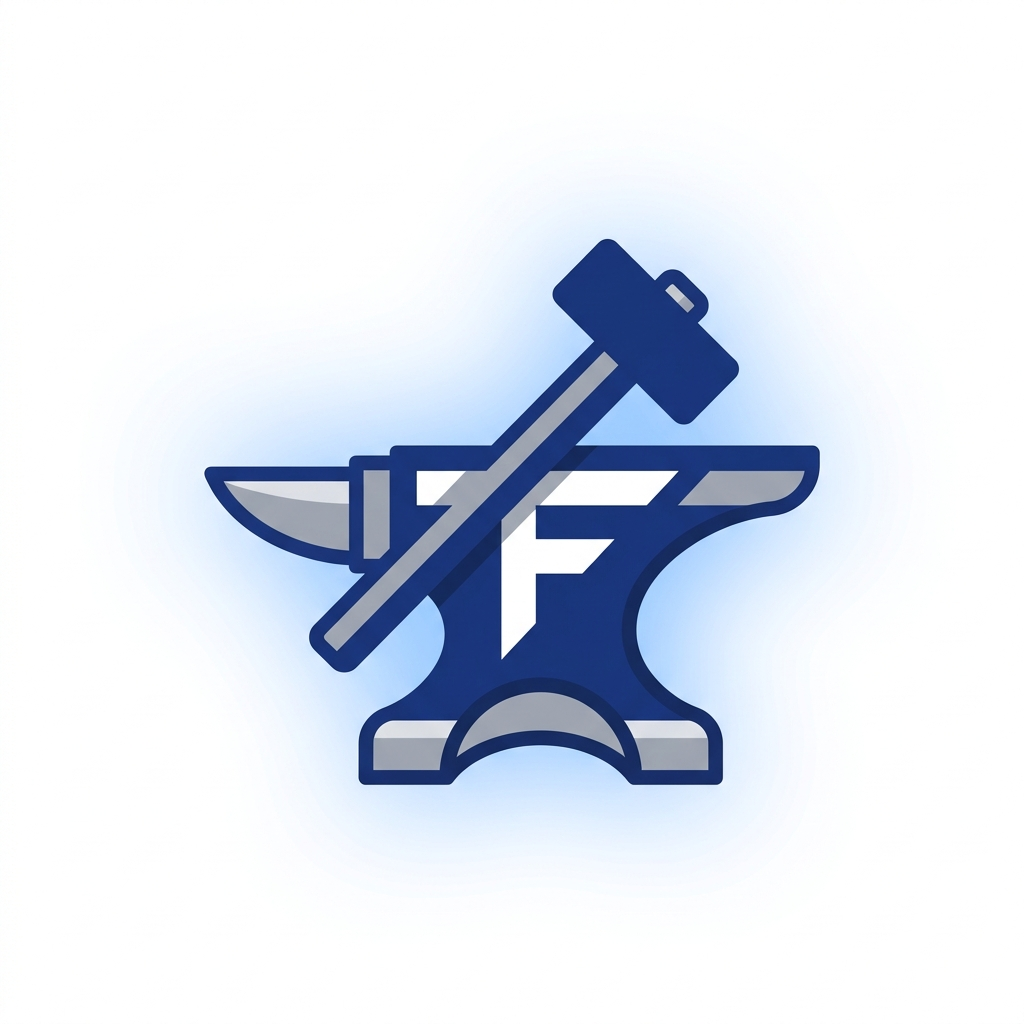
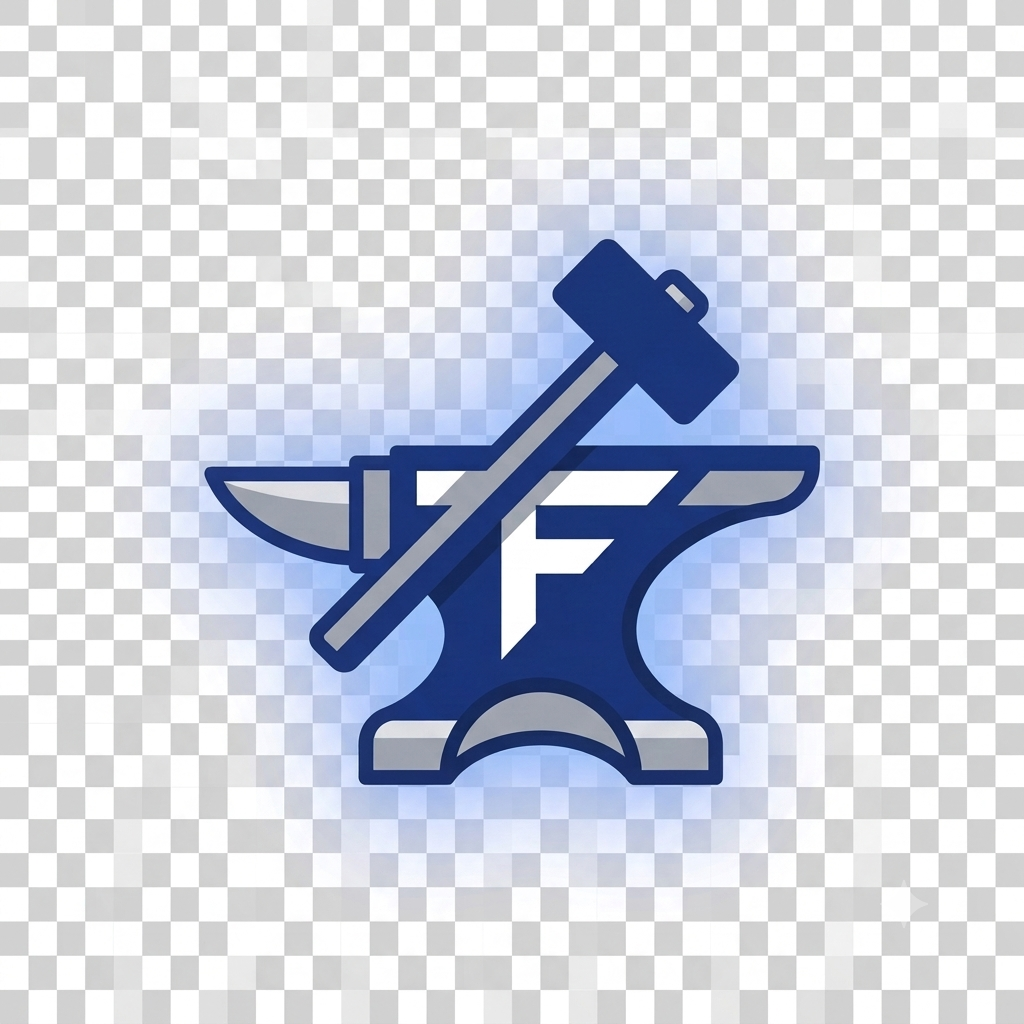
update 0.0.6

diff --git a/CHANGELOG.md b/CHANGELOG.md
@@ -1,5 +1,10 @@
 # Changelog
 
+## 0.6.0 - Icon
+
+### Changed
+- Changed the backgrounf of logo to transparent.
+
 ## 0.5.0 — Icon & polish
 
 ### Changed
